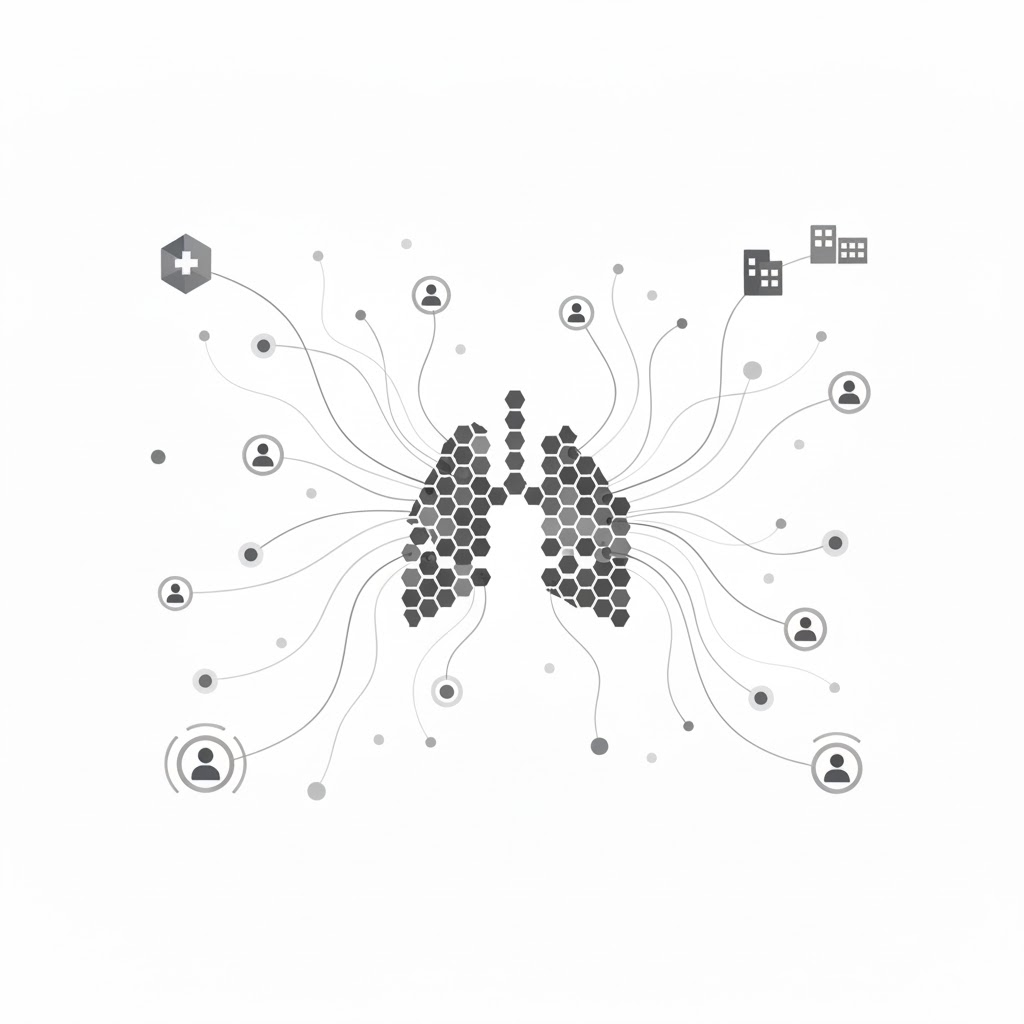
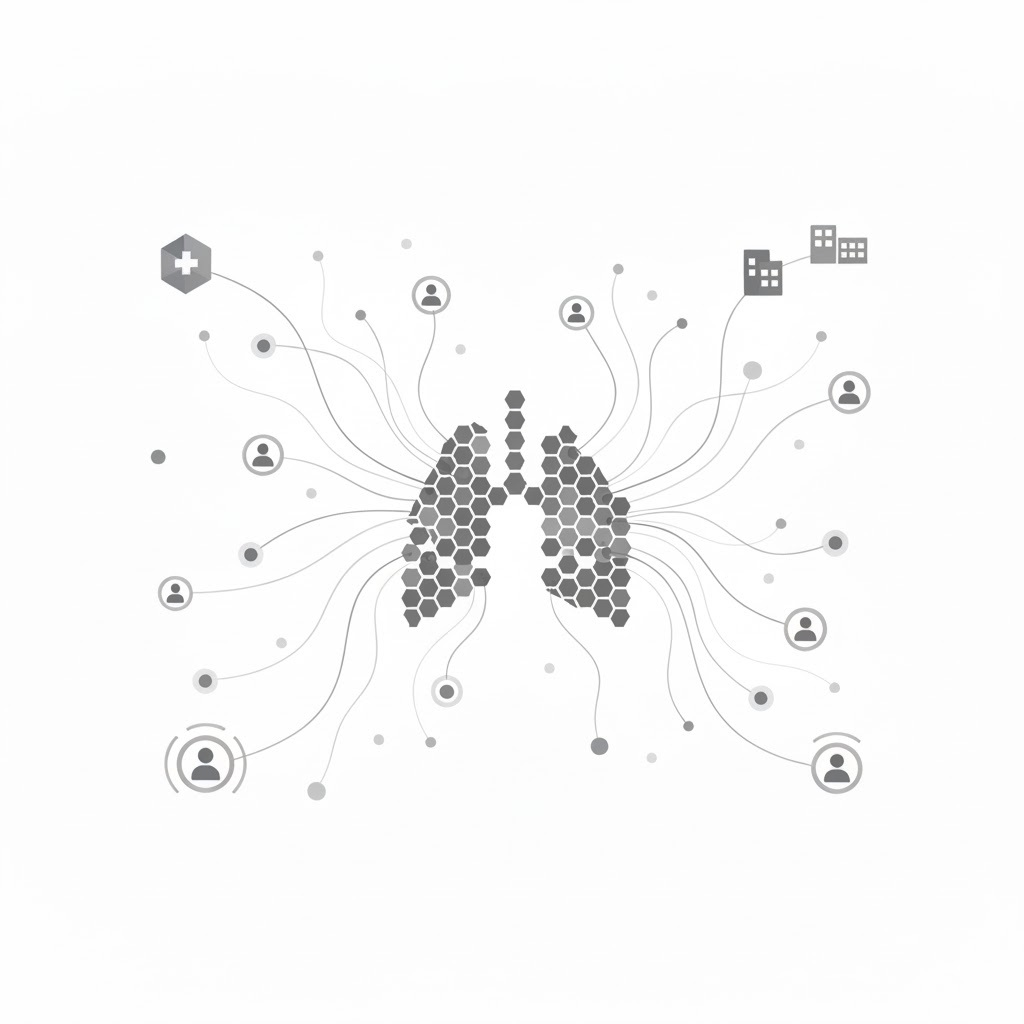
background alpha added

diff --git a/index.html b/index.html
@@ -58,7 +58,7 @@
         <div class="event-card">
           <div class="event-date">March 2026</div>
           <div class="event-content">
-            <p><strong>Deus Thundwa:</strong>Mathematical modeling to assess the drivers of rebound in 19F invasive pneumococcal disease cases after replacing PCV7 with PCV13 in the United States</p>
+            <p><strong>Deus Thundwa:</strong> Mathematical modeling to assess the drivers of rebound in 19F invasive pneumococcal disease cases after replacing PCV7 with PCV13 in the United States</p>
             <p><strong>tbc:</strong> </p>
           </div>
         </div>

diff --git a/styles.css b/styles.css
@@ -7,7 +7,7 @@ body {
   font-family: -apple-system, BlinkMacSystemFont, 'Segoe UI', Roboto, 'Helvetica Neue', Arial, sans-serif;
   margin: 0;
   color: #1a1a1a;
-  background: url('Pics/Background_PING_bw.jpg') center/cover no-repeat fixed;
+  background: linear-gradient(rgba(255, 255, 255, 0.7), rgba(255, 255, 255, 0.7)), url('Pics/Background_PING_bw.jpg') center/cover no-repeat fixed;
   background-color: #f5f7fa;
   font-size: 1rem;
   line-height: 1.6;
